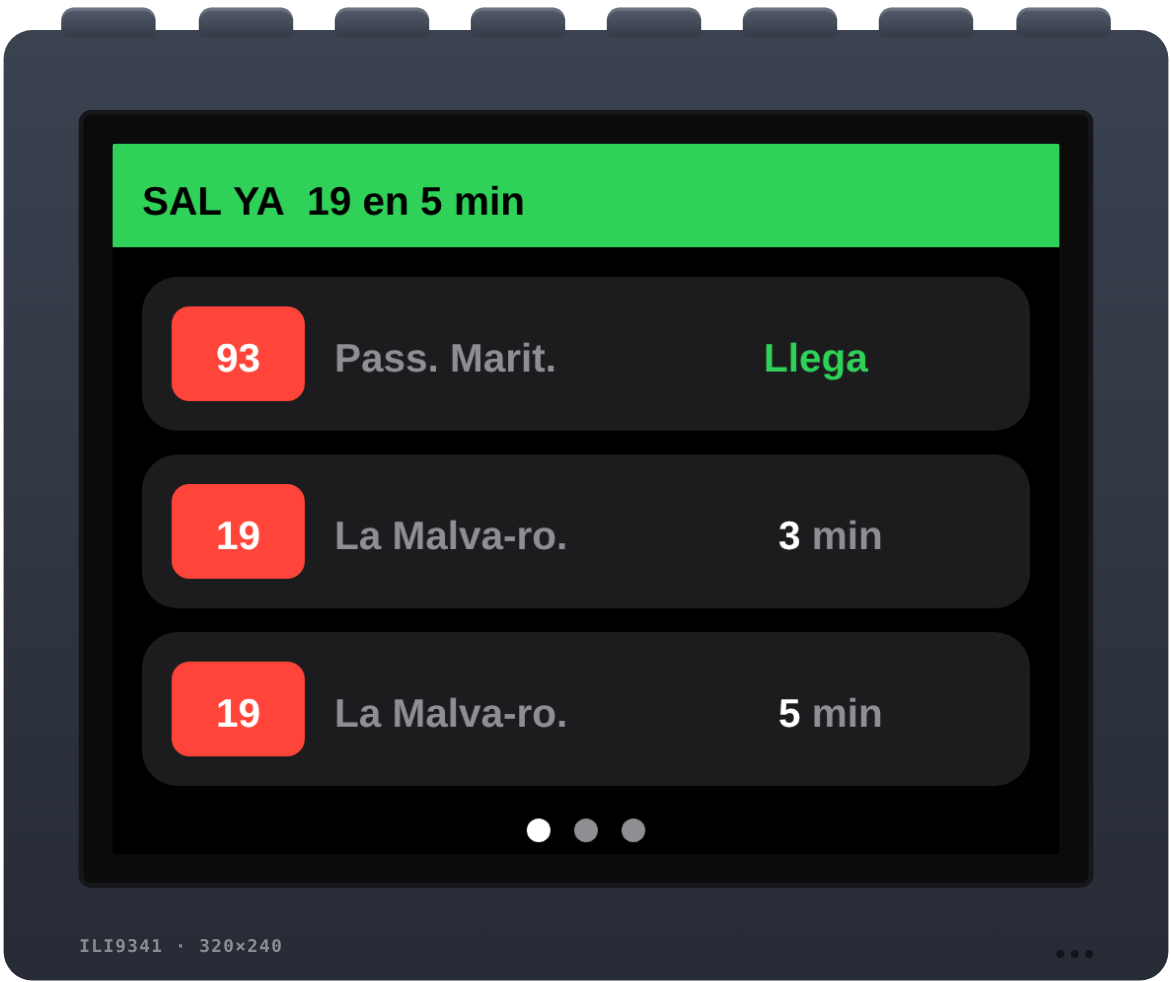
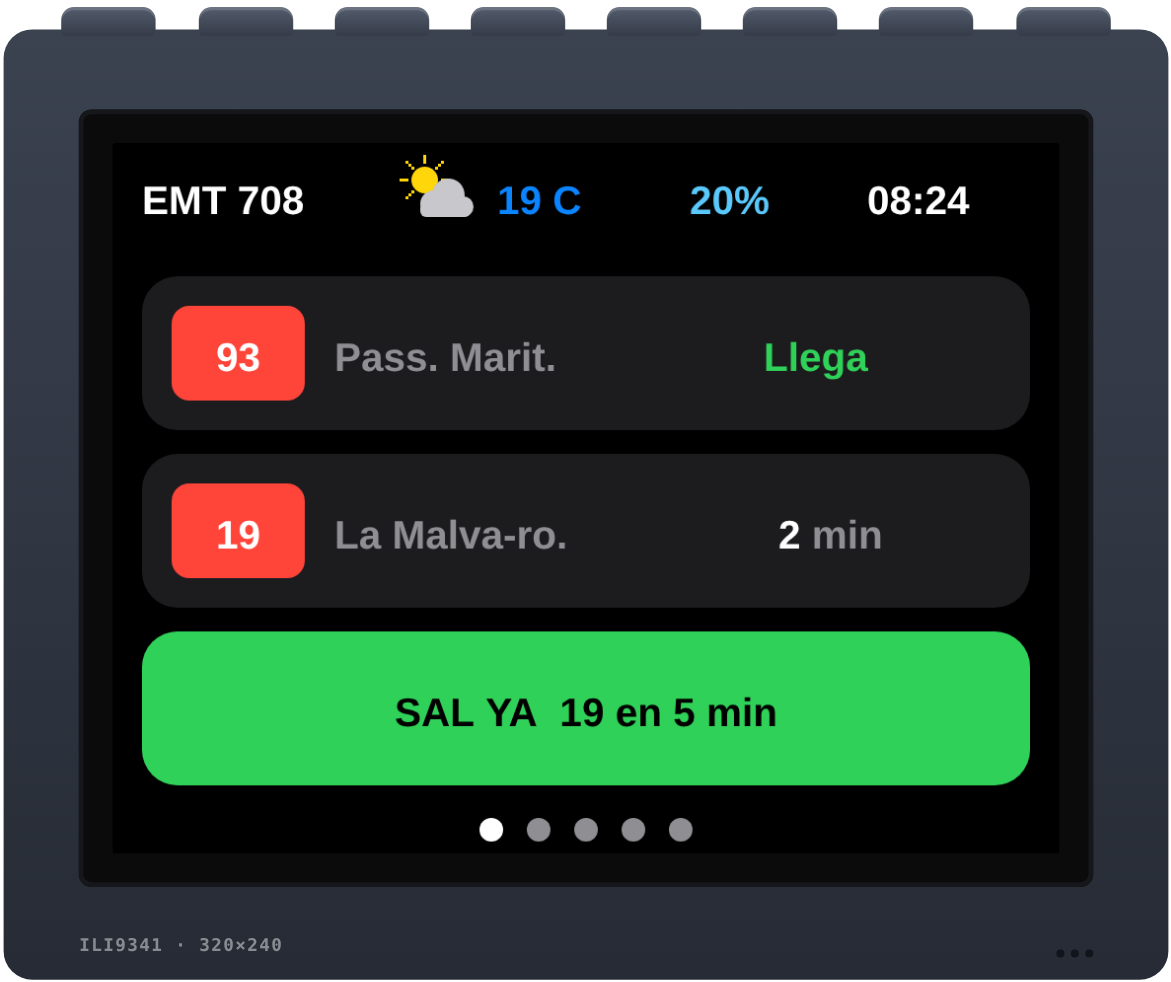
Aviso SAL YA abajo, en el sitio de la 3.ª llegada: la cabecera queda siempre visible

diff --git a/server/simulador/sim.js b/server/simulador/sim.js
@@ -125,7 +125,7 @@
     }
     drawIconoClima(icono, noche) {
       const X = 110, Y = 17;
-      this.rect(98, 2, 26, 31, C.BG);
+      this.rect(96, 0, 30, 35, C.BG);   // los rayos del sol llegan a x = 97
       switch (icono) {
         case 'despejado': noche ? this.luna(X, Y, 6) : this.sol(X, Y, 5); break;
         case 'parcial': noche ? this.luna(X - 5, Y - 5, 5) : this.sol(X - 5, Y - 5, 4); this.nube(X + 2, Y + 3, C.CLOUD); break;
@@ -153,18 +153,21 @@
     mensajeCentral(t, c) { this.rect(0, 0, 320, 240, C.BG); this.text(10, 110, t, c); }
     avisoActivo() { return this.avisoHasta !== 0 && Clock.now() < this.avisoHasta; }
 
-    drawBanner() { this.rect(0, 0, 320, 35, C.GREEN); this.text(10, 24, this.avisoTexto, C.BLACK); }
+    // El aviso ocupa el hueco de la 3.ª tarjeta, abajo (BANNER_Y = 165)
+    drawBanner() {
+      this.rrect(10, 165, 300, 52, 12, C.GREEN);
+      this.text(160 - this.width(this.avisoTexto) / 2, 197, this.avisoTexto, C.BLACK);
+    }
+    borrarBanner() { this.rect(0, 163, 320, 56, C.BG); }
     drawSinWifi(cabeceraEntera = false) {
-      if (this.avisoActivo()) return;
       if (cabeceraEntera) {
         this.rect(0, 0, 320, 35, C.BG);
         this.text(10, 24, 'EMT ' + this.paradas[this.paradaActual], C.WHITE);
         this.drawClock();
       }
-      this.rect(98, 0, 152, 35, C.BG); this.text(130, 24, 'Sin WiFi', C.RED);
+      this.rect(96, 0, 154, 35, C.BG); this.text(130, 24, 'Sin WiFi', C.RED);
     }
     drawLoading() {
-      if (this.avisoActivo()) return;
       this.rect(0, 0, 250, 35, C.BG); this.text(10, 24, 'Actualizando...', C.ACCENT);
     }
     drawPagination() {
@@ -173,11 +176,10 @@
       for (let i = 0; i < n; i++) this.circle(startX + i * 16, 232, 4, i === this.paradaActual ? C.WHITE : C.DIM);
     }
     drawClock() {
-      if (this.avisoActivo() || this.state === 'boot') return;
+      if (this.state === 'boot') return;
       this.rect(250, 0, 70, 35, C.BG); this.text(255, 24, hhmm(Clock.now()), C.WHITE);
     }
     drawHeader(doc) {
-      if (this.avisoActivo()) { this.drawBanner(); return; }
       this.rect(0, 0, 250, 35, C.BG);
       this.text(10, 24, 'EMT ' + parseInt(doc.parada, 10), C.WHITE);
       this.text(130, 24, String(doc.clima ?? ''), C.ACCENT);
@@ -192,10 +194,11 @@
         this.rrect(10, 50, 300, 60, 12, C.CARD);
         const av = Array.isArray(doc.avisos) ? doc.avisos : [];
         this.text(25, 85, av.length > 0 && av[0] === 'SENSE ESTIMACIONS' ? 'Sin servicio ahora' : 'Sin autobuses cercanos', C.DIM);
+        if (this.avisoActivo()) this.drawBanner();
         return;
       }
       let yPos = 45;
-      for (const bus of llegadas.slice(0, 3)) {
+      for (const bus of llegadas.slice(0, this.avisoActivo() ? 2 : 3)) {   // con aviso, la 3.ª es el banner
         const linea = String(bus.linea ?? '');
         let destino = sinAcentos(bus.destino || '');
         const texto = bus.texto ?? '?';
@@ -213,6 +216,7 @@
         else this.text(240, yPos + 32, texto, C.DIM);
         yPos += 60;
       }
+      if (this.avisoActivo()) this.drawBanner();
     }
 
     // ---- red
@@ -232,7 +236,8 @@
       }
       log(`GET /api/parada/${id} → ${r.code === -1 ? 'sin conexión' : r.code}`, 'bad');
       this.rect(0, 36, 320, 188, C.BG);
-      this.text(10, 110, r.code === 502 ? 'EMT no disponible' : 'Sin conexion al servidor', C.RED);
+      this.text(10, 110, r.code === 502 ? 'EMT no disponible' : r.code === 401 ? 'Clave incorrecta (API_KEY)' : 'Sin conexion al servidor', C.RED);
+      if (this.avisoActivo()) this.drawBanner();
       this.drawPagination();
     }
 
@@ -302,7 +307,8 @@
       if (this.wifi && now - this.lastAvisoCheck > FW.avisoDelay) { this.checkAviso(); this.lastAvisoCheck = now; }
       if (this.avisoHasta !== 0 && now >= this.avisoHasta) {
         this.avisoHasta = 0;
-        if (this.wifi) this.fetchBusData(); else this.drawSinWifi(true);
+        this.borrarBanner();
+        if (this.wifi) this.fetchBusData();
         this.lastBusUpdate = now;
       }
     }
@@ -376,7 +382,8 @@
     1619: [['4', 'Natzaret', 12, 4], ['92', 'La Malva-rosa', 11, 7], ['30', 'Natzaret', 17, 13]],
     697: [['73', 'Est.del Nord', 12, 1], ['62', 'Est.del Nord', 15, 3], ['64', 'Hosp. La Fe', 14, 9], ['C2', 'Av. Aragó', 13, 6]],
   };
-  const PARADAS_DEMO = Object.keys(RED_DEMO).map(Number);
+  // En orden explícito: Object.keys ordena las claves numéricas de menor a mayor
+  const PARADAS_DEMO = [708, 1676, 2080, 1619, 697];
 
   function hash(s) { let h = 2166136261; for (const c of s) { h ^= c.charCodeAt(0); h = Math.imul(h, 16777619); } return (h >>> 0) / 4294967295; }
 

diff --git a/README.md b/README.md
@@ -48,7 +48,7 @@ Se elige en [Puesta en marcha](#1-servidor-elige-a-o-b). Las dos opciones pasan 
 | Pantalla del dispositivo | Aviso de salida |
 |:---:|:---:|
 | <img src="docs/img/dispositivo.png" alt="Pantalla con las próximas llegadas" width="100%"> | <img src="docs/img/dispositivo-aviso.png" alt="Banner verde SAL YA" width="100%"> |
-| Próximas llegadas de la parada. Se cambia de parada tocando a izquierda o derecha. | Banner verde y voz: *"Sal ya. La 93 hacia Pass. Marítim llega en 6 minutos."* |
+| Próximas llegadas de la parada. Se cambia de parada tocando a izquierda o derecha. | Banner verde abajo, en el sitio de la 3.ª llegada (la parada, el tiempo y la hora siguen a la vista), y voz: *"Sal ya. La 93 hacia Pass. Marítim llega en 6 minutos."* |
 
 | Web en el móvil | Sin servicio |
 |:---:|:---:|
@@ -76,7 +76,7 @@ Un simulador en el navegador para probar el sistema **sin montar el hardware**. 
 |---|---|---|
 | Línea desviada en una parada con 3+ buses | La desviada iba al final de la lista y la pantalla solo muestra 3 tarjetas: nunca se veía | El servidor la coloca en la 3.ª posición (con test) |
 | Se cae el WiFi | La pantalla seguía mostrando minutos de hace rato sin avisar | Aviso **Sin WiFi** en rojo y datos frescos al reconectar |
-| Termina un aviso sin WiFi | El banner verde quedaba a medio borrar | Se redibuja la cabecera entera |
+| Termina un aviso sin WiFi | El banner verde quedaba a medio borrar | Se borra el hueco del aviso (hoy el banner va abajo, en el sitio de la 3.ª llegada) |
 
 
 <p align="center"><img src="docs/img/arquitectura.png" alt="Diagrama de arquitectura" width="100%"></p>
